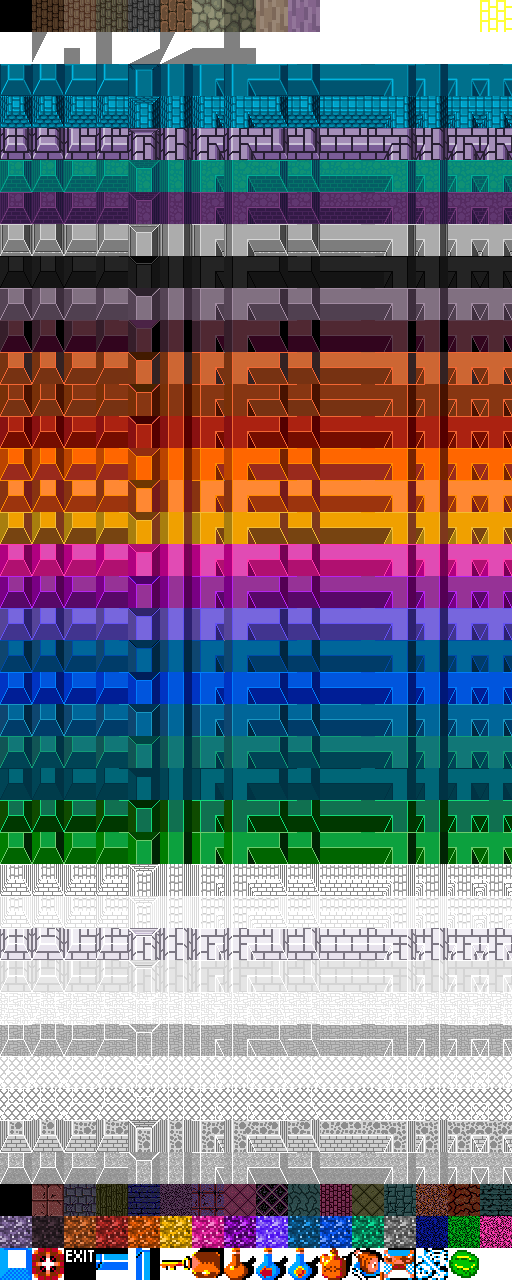
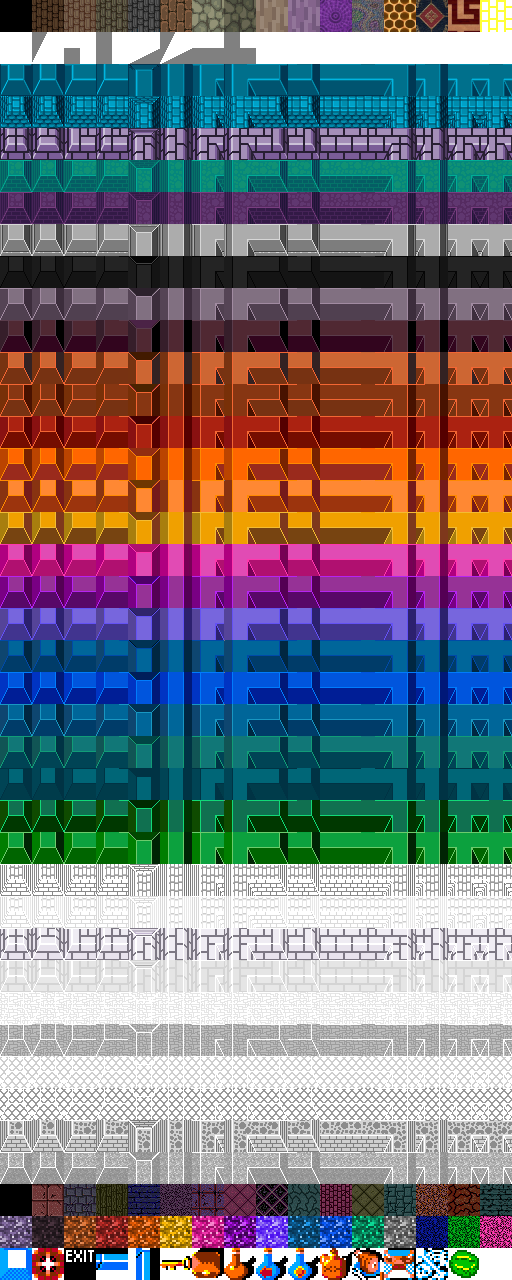
jsgv tile additions

Changed region(s): [[0.625, 0.0, 0.9375, 0.0312]]

diff --git a/js/gauntlet.js b/js/gauntlet.js
@@ -349,8 +349,8 @@ Gauntlet = function() {
 // jvsg floors - 1 tile per map cell - 32 x 32 px per each stored 0th row of backgrounds.png
 // --- g1 floors are handled in a seperate gfx file as they tile (currently) 256 x 256 px (4 x 4 map cells) over the map due to diff design per tile
       FLOOR = { 	BROWN_BOARDS: 1, LIGHBROWN_BOARDS: 2, GREEN_BOARDS: 3, GREY_BOARDS: 4, WOOD: 5, LIGHT_STONE: 6, DARK_STONE: 7, BROWN_LAMINATE: 8, 
-									PURPLE_LAMINATE: 9, RND: 10,
-									MIN: 1, MAX: 9 },
+									PURPLE_LAMINATE: 9, PURPLEPHASE: 10, MULTIC: 11, BEES: 12, BOOK: 13, MTILE: 14, YELLOWBR: 15, RND: 16,
+									MIN: 1, MAX: 14 },
 // jvsg walls - 32 x 32 px per each wall "unit" - rows 1 - 7 of backgrounds.png
       WALL  = { 	INVIS: 1, BLUE: 2, BLUE_BRICK: 3, PURPLE_TILE: 4, BLUE_COBBLE: 5, PURPLE_COBBLE: 6, CONCRETE: 7, 
 // g1 wall codes - rows 8 - 36 in backgrounds.png
